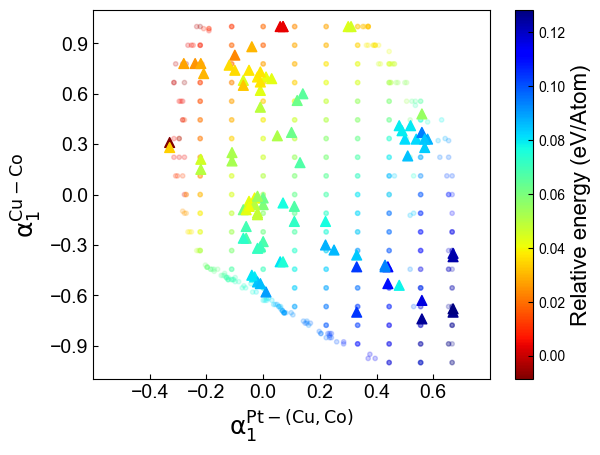
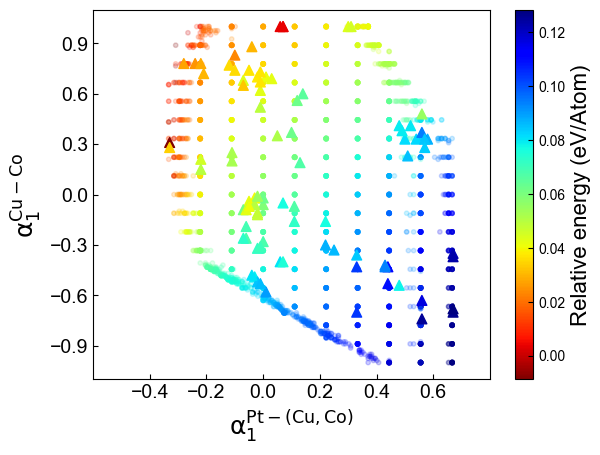
add code and file

diff --git a/5_scripts/sro_energy/plot_sro_dft.py b/5_scripts/sro_energy/plot_sro_dft.py
@@ -1,0 +1,30 @@
+import matplotlib.pyplot as plt
+import numpy as np
+
+data = np.loadtxt("sro_ml.csv", delimiter=",", encoding='utf-8-sig')
+
+
+data_dft = np.loadtxt("sro_dft.csv", delimiter=",", encoding='utf-8-sig')
+rel_energy_dft = np.loadtxt("energy_dft.csv", delimiter=",", encoding='utf-8-sig') 
+sro1_dft = data_dft[:,0]
+sro2_dft = data_dft[:,1]
+rel_energy_dft = [i/108 for i in rel_energy_dft]
+
+plt.rc('font',family='Arial')
+plt.rcParams['xtick.direction']='in'
+plt.rcParams['ytick.direction']='in'
+plt.xlim(-0.60,0.80)
+plt.xticks([-0.40,-0.20,0,0.20,0.40,0.60])
+plt.ylim(-1.1,1.1)
+plt.yticks([-0.9,-0.6,-0.3,0, 0.3,0.6,0.9])
+
+plt.scatter(sro1_dft,sro2_dft,c=rel_energy_dft,cmap='jet_r',marker='^',s=50)
+cbar=plt.colorbar()
+cbar.set_label('Relative energy (eV/Atom)',fontsize=16)
+plt.tick_params(labelsize=14)
+
+plt.xlabel(r'$\rm \alpha_{1}^{Pt-(Cu,Co)}$',fontsize=18)
+plt.ylabel(r'$\rm \alpha_{1}^{Cu-Co}$',fontsize=18)
+
+plt.savefig('sro_energy_dft.png',bbox_inches='tight')
+plt.show()

diff --git a/5_scripts/sro_energy/plot_sro_ml.py b/5_scripts/sro_energy/plot_sro_ml.py
@@ -53,5 +53,5 @@ plt.tick_params(labelsize=14)
 plt.xlabel(r'$\rm \alpha_{1}^{Pt-(Cu,Co)}$',fontsize=18)
 plt.ylabel(r'$\rm \alpha_{1}^{Cu-Co}$',fontsize=18)
 plt.legend(['ML'])
-plt.savefig('sro_ptcocu_ml.png',bbox_inches='tight')
+plt.savefig('sro_energy_ml.png',bbox_inches='tight')
 plt.show()
